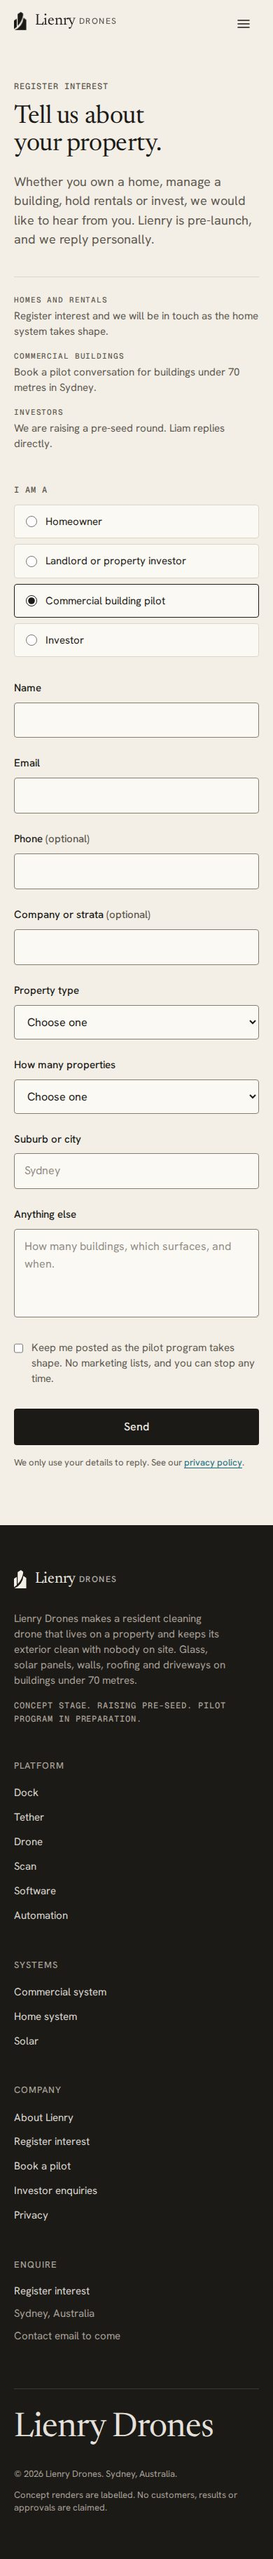
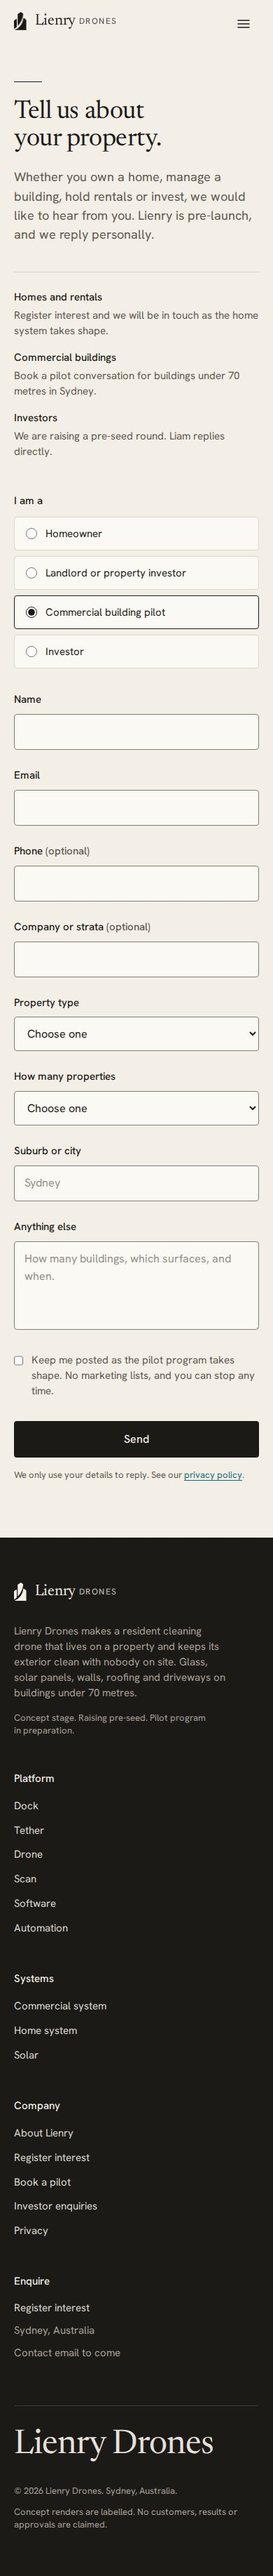
feat: remove every uppercase label; headings get a short rule, notes are plain text
The mono uppercase tracked labels read as a template. They are gone from
every page: section and page headings now carry a 40px hairline rule
above them, the hero has no label above the headline and no scroll hint,
image captions and supporting notes are plain sentence-case caption text,
footer column headings are sentence case, spec keys and enquiry labels are
ordinary medium sans, and the phone mock and property strip use plain
small text. Numerals stay in the mono face. The facts section keeps a
visually hidden heading for assistive technology.

Build, lint and typecheck pass; axe reports zero violations on every
route at 1440 and 390. Screenshots and comparison sheets refreshed.

Claude-Session: https://claude.ai/code/session_014cPnYtJdmNi3G1jESrTKrF

diff --git a/src/app/register-interest/page.tsx b/src/app/register-interest/page.tsx
@@ -1,7 +1,7 @@
 import type { Metadata } from "next";
 import { Suspense } from "react";
 import { registerPage } from "@/content/pages";
-import { Container, Eyebrow } from "@/components/ui/Section";
+import { Container, Rule } from "@/components/ui/Section";
 import { EnquiryForm } from "@/components/forms/EnquiryForm";
 
 export const metadata: Metadata = {
@@ -15,20 +15,20 @@ export default function RegisterInterestPage() {
     <div className="page-x bg-plaster pb-[var(--section-y)] pt-[calc(var(--nav-h)+3rem)] md:pt-[calc(var(--nav-h)+5rem)]">
       <Container className="grid gap-12 md:grid-cols-12">
         <div className="md:col-span-5">
-          <Eyebrow className="mb-4">{registerPage.eyebrow}</Eyebrow>
+          <Rule className="mb-6" />
           <h1 className="text-h1">{registerPage.headline}</h1>
           <p className="mt-5 max-w-prose text-lead text-muted">{registerPage.lead}</p>
           <dl className="mt-10 space-y-4 border-t border-hairline pt-6 text-small">
             <div>
-              <dt className="readout text-[0.6875rem] uppercase tracking-[0.08em] text-muted">Homes and rentals</dt>
+              <dt className="text-small font-medium text-ink">Homes and rentals</dt>
               <dd className="mt-1 text-muted">Register interest and we will be in touch as the home system takes shape.</dd>
             </div>
             <div>
-              <dt className="readout text-[0.6875rem] uppercase tracking-[0.08em] text-muted">Commercial buildings</dt>
+              <dt className="text-small font-medium text-ink">Commercial buildings</dt>
               <dd className="mt-1 text-muted">Book a pilot conversation for buildings under 70 metres in Sydney.</dd>
             </div>
             <div>
-              <dt className="readout text-[0.6875rem] uppercase tracking-[0.08em] text-muted">Investors</dt>
+              <dt className="text-small font-medium text-ink">Investors</dt>
               <dd className="mt-1 text-muted">We are raising a pre-seed round. Liam replies directly.</dd>
             </div>
           </dl>

diff --git a/src/components/home/SystemExplainer.tsx b/src/components/home/SystemExplainer.tsx
@@ -3,7 +3,7 @@
 import { systemExplainer } from "@/content/home";
 import { useActiveStep } from "@/lib/hooks";
 import { Picture } from "@/components/ui/Picture";
-import { Eyebrow } from "@/components/ui/Section";
+import { Rule } from "@/components/ui/Section";
 import { Reveal } from "@/components/ui/Reveal";
 
 const tabs = systemExplainer.tabs;
@@ -19,7 +19,7 @@ export function SystemExplainer() {
     <section id="system" aria-labelledby="system-heading" className="page-x section-y bg-plaster">
       <div className="mx-auto max-w-grid">
         <Reveal className="max-w-statement">
-          <Eyebrow className="mb-4">{systemExplainer.eyebrow}</Eyebrow>
+          <Rule className="mb-5" />
           <h2 id="system-heading" className="text-h2">
             {systemExplainer.headline}
           </h2>
@@ -35,7 +35,7 @@ export function SystemExplainer() {
                 <p className="readout text-[0.75rem] text-glass">0{i + 1}</p>
                 <h3 className={`mt-3 text-h3 transition-colors duration-300 ${i === active ? "text-ink" : "text-ink md:text-muted"}`}>{t.title}</h3>
                 <p className="mt-2 max-w-prose text-body text-muted">{t.body}</p>
-                <p className="readout mt-4 text-[0.6875rem] uppercase tracking-[0.08em] text-muted">{t.readout}</p>
+                <p className="mt-4 text-caption text-muted">{t.readout}</p>
               </li>
             ))}
           </ol>
@@ -54,8 +54,8 @@ export function SystemExplainer() {
               </div>
               <div className="mt-2 flex items-center justify-between">
                 <span className="caption">Concept render</span>
-                <span className="readout text-[0.6875rem] uppercase tracking-[0.08em] text-muted">
-                  0{active + 1} / 0{tabs.length}
+                <span className="readout text-caption text-muted">
+                  {active + 1} / {tabs.length}
                 </span>
               </div>
             </div>

diff --git a/src/components/home/LandlordStory.tsx b/src/components/home/LandlordStory.tsx
@@ -3,7 +3,7 @@
 import { landlordStory } from "@/content/home";
 import { useActiveStep } from "@/lib/hooks";
 import { Picture } from "@/components/ui/Picture";
-import { Eyebrow } from "@/components/ui/Section";
+import { Rule } from "@/components/ui/Section";
 import { Reveal } from "@/components/ui/Reveal";
 
 const beats = landlordStory.beats;
@@ -22,7 +22,7 @@ function AppScreen({ state }: { state: string }) {
     <div className="flex h-full flex-col bg-plaster text-ink">
       <div className="flex items-center justify-between px-5 pt-5">
         <span className="font-display text-[1.125rem]">Lienry</span>
-        <span className="readout text-[0.625rem] uppercase tracking-[0.08em] text-muted">Rental, Sydney</span>
+        <span className="text-[0.6875rem] text-muted">Rental, Sydney</span>
       </div>
       <div className="mx-5 mt-4 rounded-hard border border-hairline bg-sunken p-3">
         <div className="grid grid-cols-6 gap-1">
@@ -33,7 +33,7 @@ function AppScreen({ state }: { state: string }) {
             />
           ))}
         </div>
-        <p className="mt-2 readout text-[0.625rem] uppercase tracking-[0.08em] text-muted">Property map</p>
+        <p className="mt-2 text-[0.6875rem] text-muted">Property map</p>
       </div>
       <ul className="mt-4 flex-1 space-y-1 px-5">
         {rows.map((r) => (
@@ -93,7 +93,7 @@ export function LandlordStory() {
     <section id="story" aria-labelledby="story-heading" className="page-x section-y bg-plaster">
       <div className="mx-auto max-w-grid">
         <Reveal className="max-w-statement">
-          <Eyebrow className="mb-4">{landlordStory.eyebrow}</Eyebrow>
+          <Rule className="mb-5" />
           <h2 id="story-heading" className="text-h2">
             {landlordStory.headline}
           </h2>

diff --git a/src/components/home/FilmBand.tsx b/src/components/home/FilmBand.tsx
@@ -6,6 +6,7 @@ import { getImage, getVideo, largest, srcSet } from "@/lib/media";
 import { bindPlayback } from "@/lib/video";
 import { Button } from "@/components/ui/Button";
 import { Reveal } from "@/components/ui/Reveal";
+import { Rule } from "@/components/ui/Section";
 
 /**
  * Full-bleed film band: a muted looping clip with a poster, one line of copy and one link.
@@ -15,14 +16,14 @@ import { Reveal } from "@/components/ui/Reveal";
 export function FilmBand({
   videoId,
   stillId,
-  eyebrow,
   headline,
   body,
   cta,
 }: {
   videoId: string;
   stillId: string;
-  eyebrow: string;
+  /** Kept for the callers; the band shows a short rule instead of a label. */
+  eyebrow?: string;
   headline: string;
   body: string;
   cta: { label: string; href: string };
@@ -62,8 +63,8 @@ export function FilmBand({
       </div>
       <div className="page-x mx-auto flex min-h-[70svh] w-full max-w-grid flex-col justify-end pb-14 pt-24 md:min-h-[85svh] md:pb-20">
         <Reveal className="max-w-[34rem]">
-          <p className="eyebrow">{eyebrow}</p>
-          <h2 id="film-heading" className="mt-4 text-h1">
+          <Rule className="mb-5" />
+          <h2 id="film-heading" className="text-h1">
             {headline}
           </h2>
           <p className="mt-5 text-lead text-plaster">{body}</p>
@@ -73,9 +74,7 @@ export function FilmBand({
             </Button>
           </div>
         </Reveal>
-        <div className="mt-10 flex justify-between text-caption text-plaster/70">
-          <span className="readout uppercase tracking-[0.08em]">Concept render</span>
-        </div>
+        <p className="mt-10 text-caption text-plaster/70">Concept render</p>
       </div>
     </section>
   );

diff --git a/src/components/blocks/Blocks.tsx b/src/components/blocks/Blocks.tsx
@@ -55,10 +55,10 @@ export function AlternatingRows({ id, rows }: { id: string; rows: { id: string; 
               <Picture id={row.imageId} alt={`${row.eyebrow}: ${row.title}`} aspect="1/1" sizes="(min-width: 768px) 45vw, 100vw" />
             </div>
             <div className={`md:col-span-5 ${i % 2 === 1 ? "md:order-1 md:col-start-1" : "md:col-start-8"}`}>
-              <p className="eyebrow">{row.eyebrow}</p>
+              <p className="text-caption text-muted">{row.eyebrow}</p>
               <h2 className="mt-3 text-h2">{row.title}</h2>
               <p className="mt-4 max-w-[46ch] text-body text-muted">{row.body}</p>
-              {row.readout ? <p className="readout mt-6 border-t border-hairline pt-3 text-[0.6875rem] uppercase tracking-[0.08em] text-muted">{row.readout}</p> : null}
+              {row.readout ? <p className="mt-6 border-t border-hairline pt-3 text-caption text-muted">{row.readout}</p> : null}
             </div>
           </Reveal>
         ))}
@@ -138,7 +138,7 @@ export function SpecTable({ id, eyebrow, headline, rows }: { id: string; eyebrow
             <dl className="divide-y divide-hairline border-y border-hairline">
               {rows.map(([k, v]) => (
                 <div key={k} className="grid gap-1 py-4 sm:grid-cols-3 sm:gap-6">
-                  <dt className="readout text-[0.75rem] uppercase tracking-[0.08em] text-muted sm:pt-1">{k}</dt>
+                  <dt className="text-small font-medium text-ink sm:pt-0.5">{k}</dt>
                   <dd className="text-body sm:col-span-2">{v}</dd>
                 </div>
               ))}

diff --git a/src/components/ui/Section.tsx b/src/components/ui/Section.tsx
@@ -45,8 +45,9 @@ export function Container({ width = "grid", className = "", children }: { width?
   return <div className={`mx-auto w-full ${widths[width]} ${className}`}>{children}</div>;
 }
 
-export function Eyebrow({ children, className = "", as: Tag = "p" }: { children: ReactNode; className?: string; as?: "p" | "span" | "div" }) {
-  return <Tag className={`eyebrow ${className}`}>{children}</Tag>;
+/** A short rule above a heading. It replaces the old uppercase label everywhere. */
+export function Rule({ className = "" }: { className?: string }) {
+  return <span aria-hidden="true" className={`block h-px w-10 bg-ink [.on-dark_&]:bg-plaster/60 ${className}`} />;
 }
 
 export function SectionHeading({
@@ -58,6 +59,7 @@ export function SectionHeading({
   className = "",
   level = 2,
 }: {
+  /** Kept for the content files; when present the heading gets a short rule above it, never a label. */
   eyebrow?: string;
   headline: string;
   intro?: string;
@@ -69,7 +71,7 @@ export function SectionHeading({
   const H = level === 1 ? "h1" : "h2";
   return (
     <div className={`${align === "center" ? "mx-auto text-center" : ""} max-w-statement ${className}`}>
-      {eyebrow ? <Eyebrow className="mb-4">{eyebrow}</Eyebrow> : null}
+      {eyebrow ? <Rule className={`mb-5 ${align === "center" ? "mx-auto" : ""}`} /> : null}
       <H id={id} className={level === 1 ? "text-h1" : "text-h2"}>
         {headline}
       </H>

diff --git a/src/components/site/Footer.tsx b/src/components/site/Footer.tsx
@@ -10,11 +10,11 @@ export function Footer() {
           <div className="md:col-span-5">
             <Wordmark />
             <p className="mt-6 max-w-[38ch] text-small text-muted-on-dark">{brand.description}</p>
-            <p className="mt-4 readout text-[0.75rem] uppercase tracking-[0.08em] text-muted-on-dark">{brand.status}</p>
+            <p className="mt-4 text-caption text-muted-on-dark">{brand.status}</p>
           </div>
           {footerColumns.map((col) => (
             <div key={col.heading} className="md:col-span-2 md:col-start-auto">
-              <h2 className="font-sans text-[0.8125rem] font-medium uppercase tracking-[0.08em] text-muted-on-dark">{col.heading}</h2>
+              <h2 className="font-sans text-small font-medium text-plaster">{col.heading}</h2>
               <ul className="mt-4 space-y-2.5">
                 {col.links.map((l) => (
                   <li key={l.href}>
@@ -27,7 +27,7 @@ export function Footer() {
             </div>
           ))}
           <div className="md:col-span-3">
-            <h2 className="font-sans text-[0.8125rem] font-medium uppercase tracking-[0.08em] text-muted-on-dark">Enquire</h2>
+            <h2 className="font-sans text-small font-medium text-plaster">Enquire</h2>
             <ul className="mt-4 space-y-2.5 text-small">
               <li>
                 <Link href="/register-interest" className="text-plaster/90 hover:opacity-70">

diff --git a/src/components/home/Hero.tsx b/src/components/home/Hero.tsx
@@ -71,15 +71,7 @@ export function Hero() {
       <div className="page-x mx-auto w-full max-w-grid pb-14 pt-[calc(var(--nav-h)+3rem)] md:pb-20">
         <div className="grid gap-8 md:grid-cols-12">
           <div className="md:col-span-8 lg:col-span-7">
-            <motion.p
-              className="eyebrow"
-              initial={reduce ? false : { opacity: 0 }}
-              animate={{ opacity: 1 }}
-              transition={{ duration: 0.6, delay: 0.2 }}
-            >
-              {hero.eyebrow}
-            </motion.p>
-            <h1 id="hero-heading" className="mt-5 text-display">
+            <h1 id="hero-heading" className="text-display">
               {words.map((w, i) => (
                 <Fragment key={`${w}-${i}`}>
                   <motion.span
@@ -118,10 +110,7 @@ export function Hero() {
             </motion.div>
           </div>
         </div>
-        <div className="mt-12 flex items-end justify-between text-caption text-plaster/70">
-          <span className="readout uppercase tracking-[0.08em]">Concept render</span>
-          <span className="readout uppercase tracking-[0.08em]">Scroll</span>
-        </div>
+        <p className="mt-12 text-caption text-plaster/70">Concept render</p>
       </div>
     </section>
   );

diff --git a/src/app/globals.css b/src/app/globals.css
@@ -59,9 +59,6 @@
   --text-small--line-height: 1.47;
   --text-caption: 0.8125rem;
   --text-caption--line-height: 1.38;
-  --text-eyebrow: 0.75rem;
-  --text-eyebrow--line-height: 1.33;
-  --text-eyebrow--letter-spacing: 0.08em;
   --text-numeral: clamp(3.5rem, 2.6rem + 3.8vw, 5.5rem);
   --text-numeral--line-height: 1;
   --text-numeral--letter-spacing: -0.02em;
@@ -161,20 +158,6 @@
     padding-bottom: var(--section-y);
   }
 
-  .eyebrow {
-    font-family: var(--font-mono);
-    font-size: var(--text-eyebrow);
-    line-height: var(--text-eyebrow--line-height);
-    letter-spacing: var(--text-eyebrow--letter-spacing);
-    text-transform: uppercase;
-    font-weight: 500;
-    color: var(--color-muted);
-  }
-
-  .on-dark .eyebrow {
-    color: var(--color-muted-on-dark);
-  }
-
   /* The three blocks of the mark rise into place once, in step with the hero reveal. */
   @keyframes mark-rise {
     from {
@@ -225,10 +208,9 @@
   }
 
   .caption {
-    font-family: var(--font-mono);
-    font-size: 0.6875rem;
-    letter-spacing: 0.08em;
-    text-transform: uppercase;
+    font-family: var(--font-sans);
+    font-size: var(--text-caption);
+    line-height: var(--text-caption--line-height);
     color: var(--color-muted);
   }
 

diff --git a/src/components/blocks/PageHero.tsx b/src/components/blocks/PageHero.tsx
@@ -1,17 +1,17 @@
-import { Container, Eyebrow } from "@/components/ui/Section";
+import { Container, Rule } from "@/components/ui/Section";
 import { Picture } from "@/components/ui/Picture";
 import { Reveal } from "@/components/ui/Reveal";
 import type { ReactNode } from "react";
 
 export function PageHero({
-  eyebrow,
   headline,
   lead,
   imageId,
   imageAlt,
   children,
 }: {
-  eyebrow: string;
+  /** Kept for the callers; the page header shows a short rule instead of a label. */
+  eyebrow?: string;
   headline: string;
   lead: string;
   imageId?: string;
@@ -22,7 +22,7 @@ export function PageHero({
     <header className="page-x bg-plaster pt-[calc(var(--nav-h)+3rem)] md:pt-[calc(var(--nav-h)+5rem)]">
       <Container>
         <Reveal>
-          <Eyebrow className="mb-4">{eyebrow}</Eyebrow>
+          <Rule className="mb-6" />
           <h1 className="max-w-[18ch] text-display">{headline}</h1>
           <p className="mt-6 max-w-prose text-lead text-muted">{lead}</p>
           {children ? <div className="mt-8 flex flex-col gap-3 sm:flex-row">{children}</div> : null}

diff --git a/src/app/company/page.tsx b/src/app/company/page.tsx
@@ -1,7 +1,7 @@
 import type { Metadata } from "next";
 import { companyPage } from "@/content/pages";
 import { CtaBlock, Tiles } from "@/components/blocks/Blocks";
-import { Container, Section, SectionHeading, Eyebrow } from "@/components/ui/Section";
+import { Container, Section, SectionHeading, Rule } from "@/components/ui/Section";
 import { Reveal } from "@/components/ui/Reveal";
 import { PhotoPlaceholder } from "@/components/home/VisionLetter";
 import { Picture } from "@/components/ui/Picture";
@@ -19,7 +19,7 @@ export default function CompanyPage() {
       <header className="page-x bg-plaster pt-[calc(var(--nav-h)+3rem)] md:pt-[calc(var(--nav-h)+5rem)]">
         <Container width="statement">
           <Reveal>
-            <Eyebrow className="mb-4">{c.eyebrow}</Eyebrow>
+            <Rule className="mb-6" />
             <h1 className="text-h2 text-muted">{c.headline}</h1>
             <p className="mt-8 font-display text-[clamp(1.75rem,1.3rem+2vw,2.5rem)] leading-[1.25] tracking-[-0.01em]">{c.statement}</p>
           </Reveal>

diff --git a/src/components/home/Counters.tsx b/src/components/home/Counters.tsx
@@ -1,5 +1,5 @@
 import { counters } from "@/content/home";
-import { Container, Section, Eyebrow } from "@/components/ui/Section";
+import { Container, Section, Rule } from "@/components/ui/Section";
 import { Counter } from "@/components/ui/Counter";
 import { RevealItem, RevealList } from "@/components/ui/Reveal";
 
@@ -7,9 +7,10 @@ export function Counters() {
   return (
     <Section id="facts" tone="raised" ariaLabelledby="facts-heading" className="border-y border-hairline">
       <Container>
-        <Eyebrow as="p" className="mb-8">
-          <span id="facts-heading">{counters.eyebrow}</span>
-        </Eyebrow>
+        <h2 id="facts-heading" className="sr-only">
+          {counters.eyebrow}
+        </h2>
+        <Rule className="mb-10" />
         <RevealList className="grid grid-cols-2 gap-x-6 gap-y-10 md:grid-cols-5 md:gap-x-8">
           {counters.items.map((c) => (
             <RevealItem key={c.label} className="flex flex-col">
